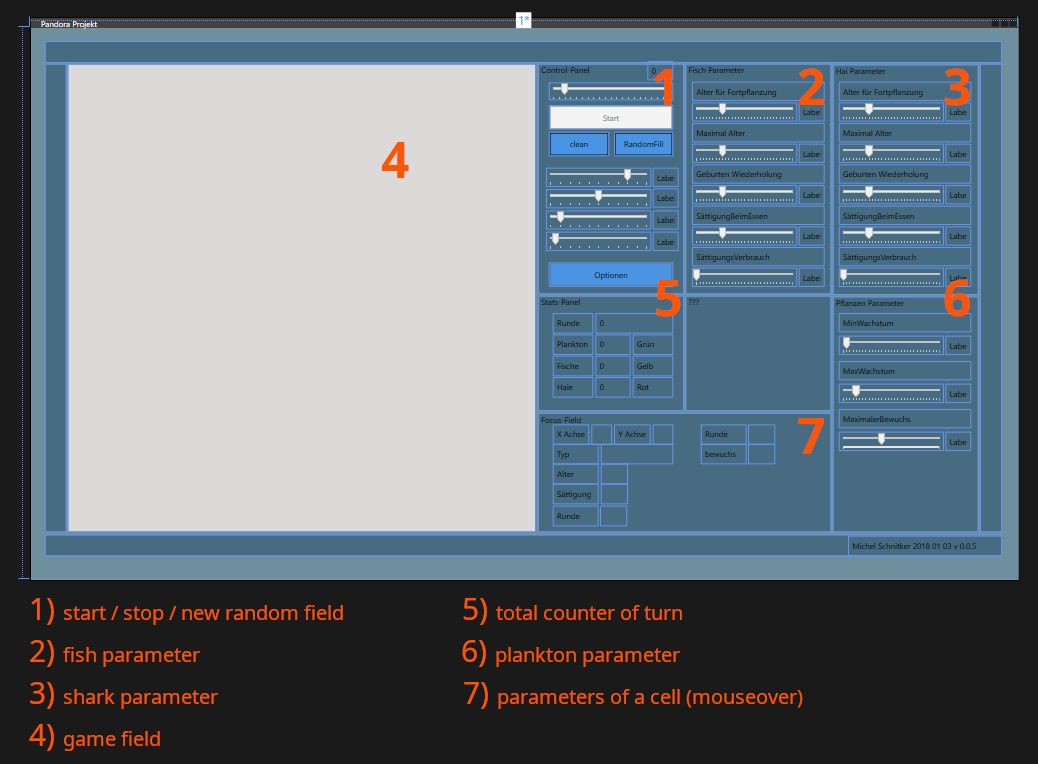
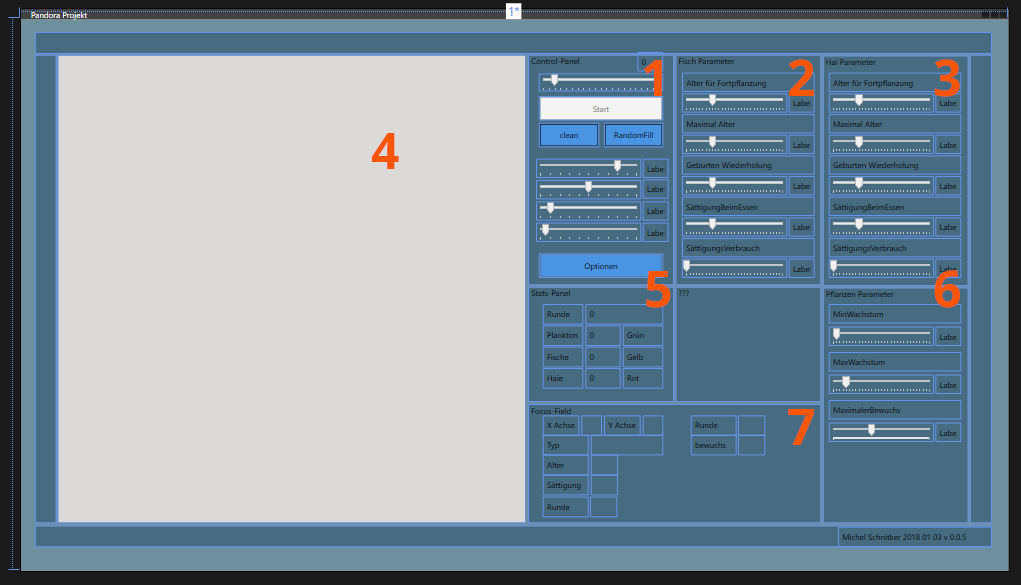
change readme

diff --git a/README.md b/README.md
@@ -18,10 +18,24 @@ Implementation
 Screenshots
 -----------
 * Explanation of the user interface.
-![Explanation](/screenshots/PandoraDoku1.png)
+> ![Explanation](/screenshots/PandoraDoku1.png)
+>
+> 1: start / stop / new random field
+>
+> 2: fish parameter
+>
+> 3: shark parameter
+>
+> 4: game field
+>
+> 5: total counter of turn
+>
+> 6: plankton parameter
+>
+> 7: parameter of a cell (game field mouseover)
 
 * Simulation with fish(yellow) and plankton(green)
-![SimulationPF](/screenshots/PandoraDoku2.png)
+> ![SimulationPF](/screenshots/PandoraDoku2.png)
 
 * Simulation with shark(red), fish(yellow) and plankton(green)
-![SimulationPFH](/screenshots/PandoraDoku3.png)
+> ![SimulationPFH](/screenshots/PandoraDoku3.png)
